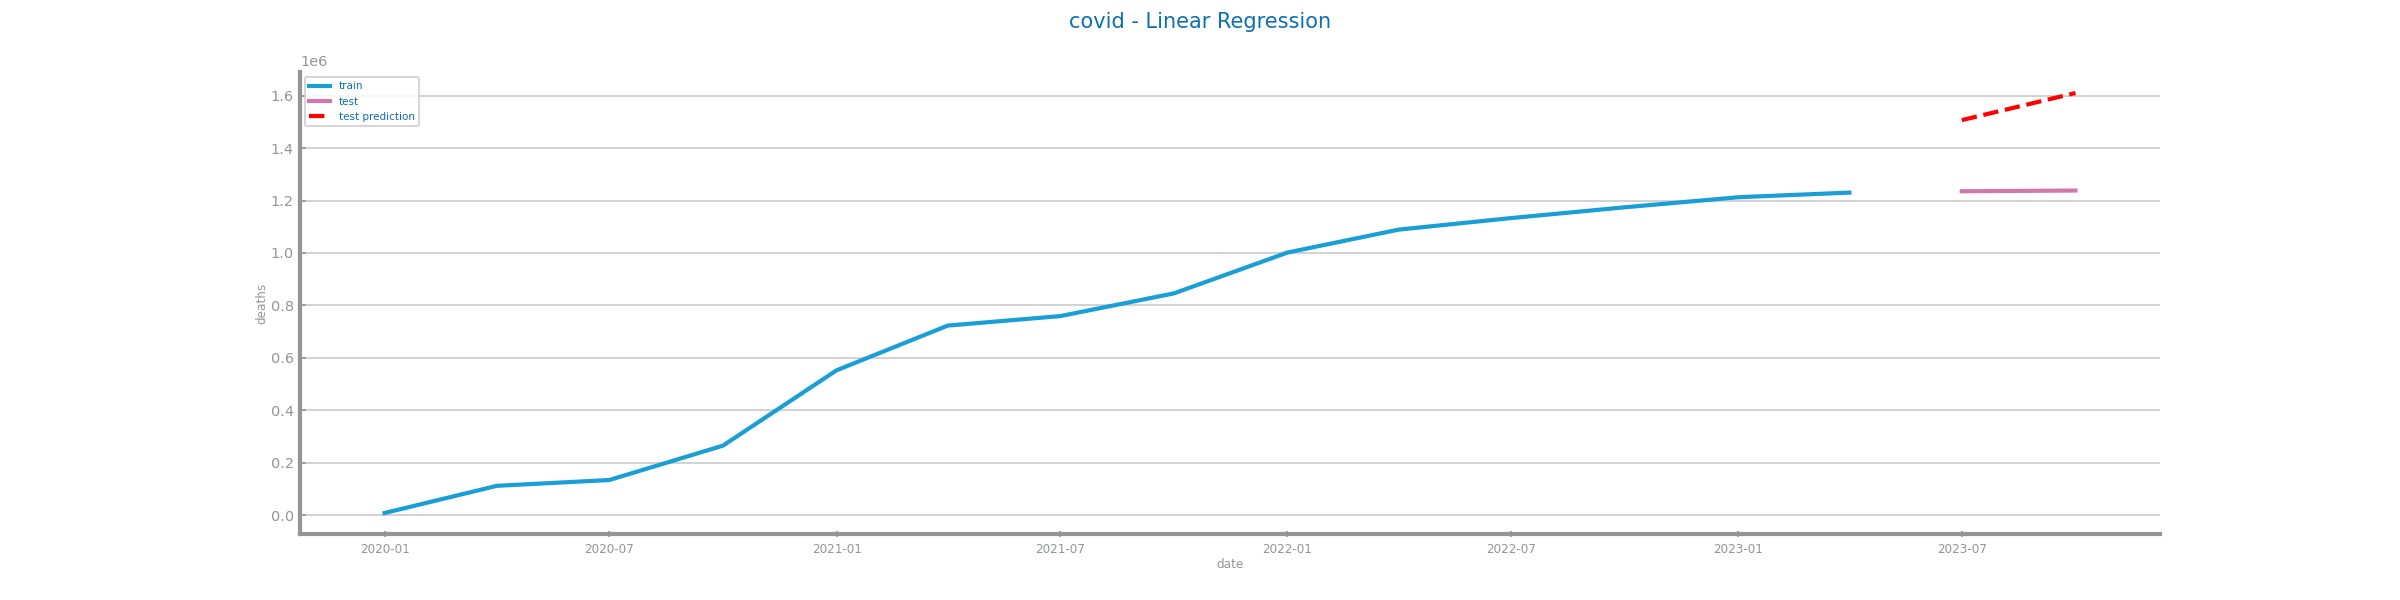
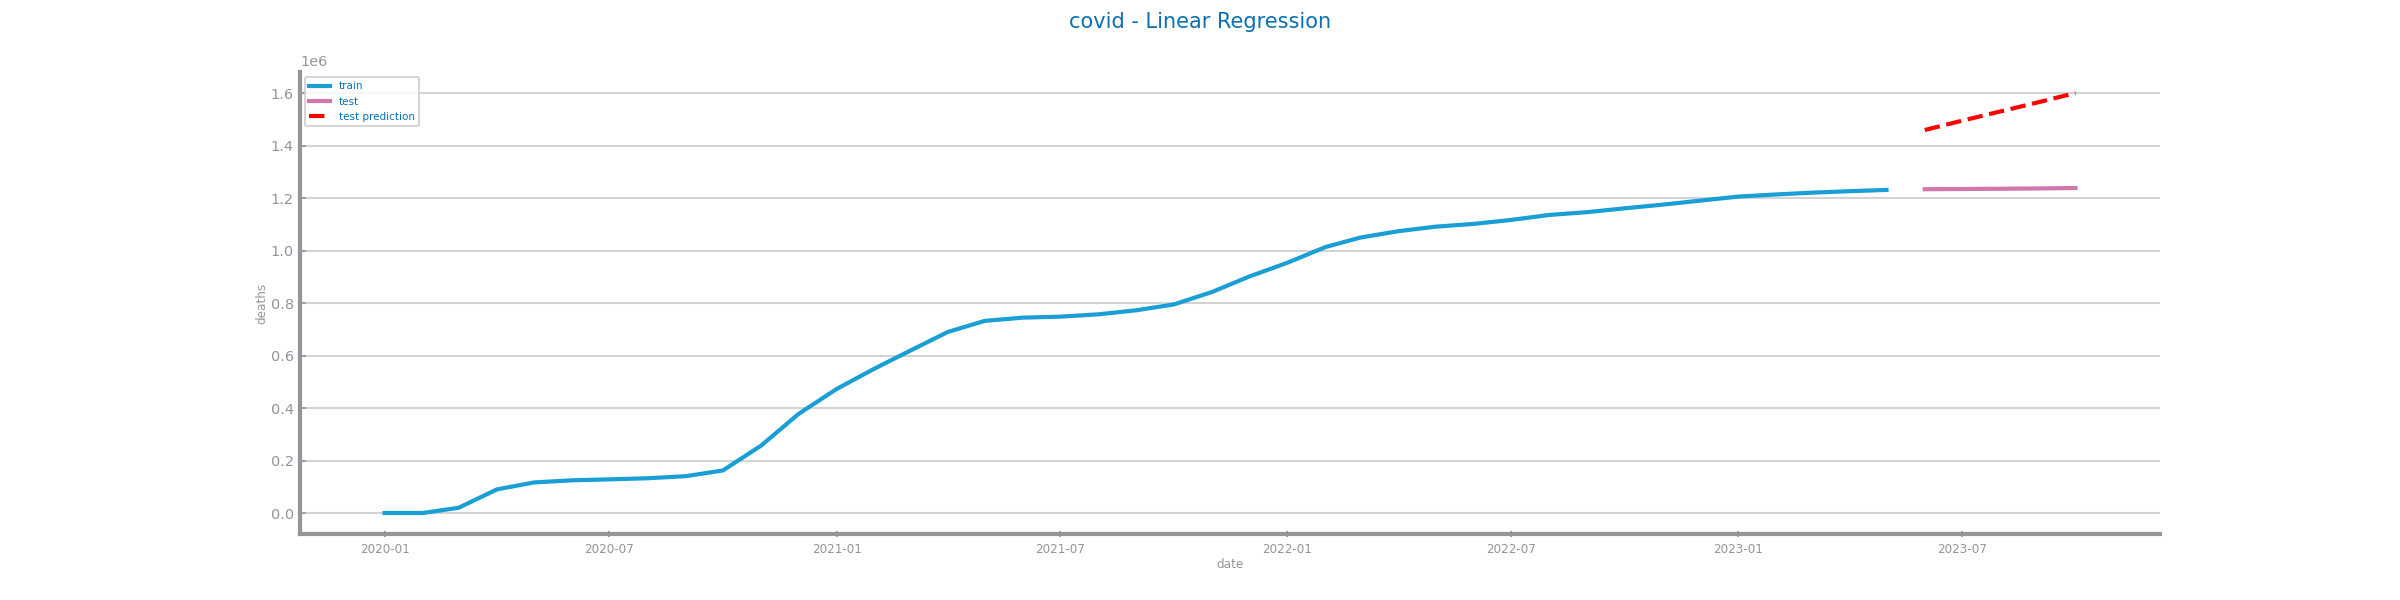
small changes

diff --git a/forecasting_health/transformation/aggregation.py b/forecasting_health/transformation/aggregation.py
@@ -50,6 +50,38 @@ plot_forecasting_series(
 savefig(f"forecasting_health/transformation/transformation_images/{file_tag}_granularity_first_forecast.png")
 
 
+
+
+
+data: Series = ts_aggregation_by(data, "M")
+
+train, test = series_train_test_split(data, trn_pct=0.90)
+
+trnX = arange(len(train)).reshape(-1, 1)
+trnY = train.to_numpy()
+tstX = arange(len(train), len(data)).reshape(-1, 1)
+tstY = test.to_numpy()
+
+model = LinearRegression()
+model.fit(trnX, trnY)
+
+prd_trn: Series = Series(model.predict(trnX), index=train.index)
+prd_tst: Series = Series(model.predict(tstX), index=test.index)
+
+plot_forecasting_eval(train, test, prd_trn, prd_tst, title=f"{file_tag} - Linear Regression")
+savefig(f"forecasting_health/transformation/transformation_images/{file_tag}_granularity_second_eval.png")
+
+plot_forecasting_series(
+    train,
+    test,
+    prd_tst,
+    title=f"{file_tag} - Linear Regression",
+    xlabel=timecol,
+    ylabel=target,
+)
+savefig(f"forecasting_health/transformation/transformation_images/{file_tag}_granularity_second_forecast.png")
+
+
 file_tag = "covid"
 target = "deaths"
 timecol: str = "date"
@@ -90,36 +122,6 @@ plot_forecasting_series(
     ylabel=target,
 )
 savefig(f"forecasting_health/transformation/transformation_images/{file_tag}_granularity_third_forecast.png")
-
-
-data: Series = ts_aggregation_by(data, "M")
-
-train, test = series_train_test_split(data, trn_pct=0.90)
-
-trnX = arange(len(train)).reshape(-1, 1)
-trnY = train.to_numpy()
-tstX = arange(len(train), len(data)).reshape(-1, 1)
-tstY = test.to_numpy()
-
-model = LinearRegression()
-model.fit(trnX, trnY)
-
-prd_trn: Series = Series(model.predict(trnX), index=train.index)
-prd_tst: Series = Series(model.predict(tstX), index=test.index)
-
-plot_forecasting_eval(train, test, prd_trn, prd_tst, title=f"{file_tag} - Linear Regression")
-savefig(f"forecasting_health/transformation/transformation_images/{file_tag}_granularity_second_eval.png")
-
-plot_forecasting_series(
-    train,
-    test,
-    prd_tst,
-    title=f"{file_tag} - Linear Regression",
-    xlabel=timecol,
-    ylabel=target,
-)
-savefig(f"forecasting_health/transformation/transformation_images/{file_tag}_granularity_second_forecast.png")
-
 
 
 

diff --git a/forecasting_health/transformation/config/dslabs_functions.py b/forecasting_health/transformation/config/dslabs_functions.py
@@ -907,7 +907,7 @@ def plot_forecasting_eval(trn: Series, tst: Series, prd_trn: Series, prd_tst: Se
         "R2": [FORECAST_MEASURES["R2"](trn, prd_trn), FORECAST_MEASURES["R2"](tst, prd_tst)],
     }
 
-    # print(eval1, eval2)
+    print(ev1, ev2)
     fig, axs = subplots(1, 2, figsize=(1.5 * HEIGHT, 0.75 * HEIGHT), squeeze=True)
     fig.suptitle(title)
     plot_multibar_chart(["train", "test"], ev1, ax=axs[0], title="Scale-dependent error", percentage=False)
